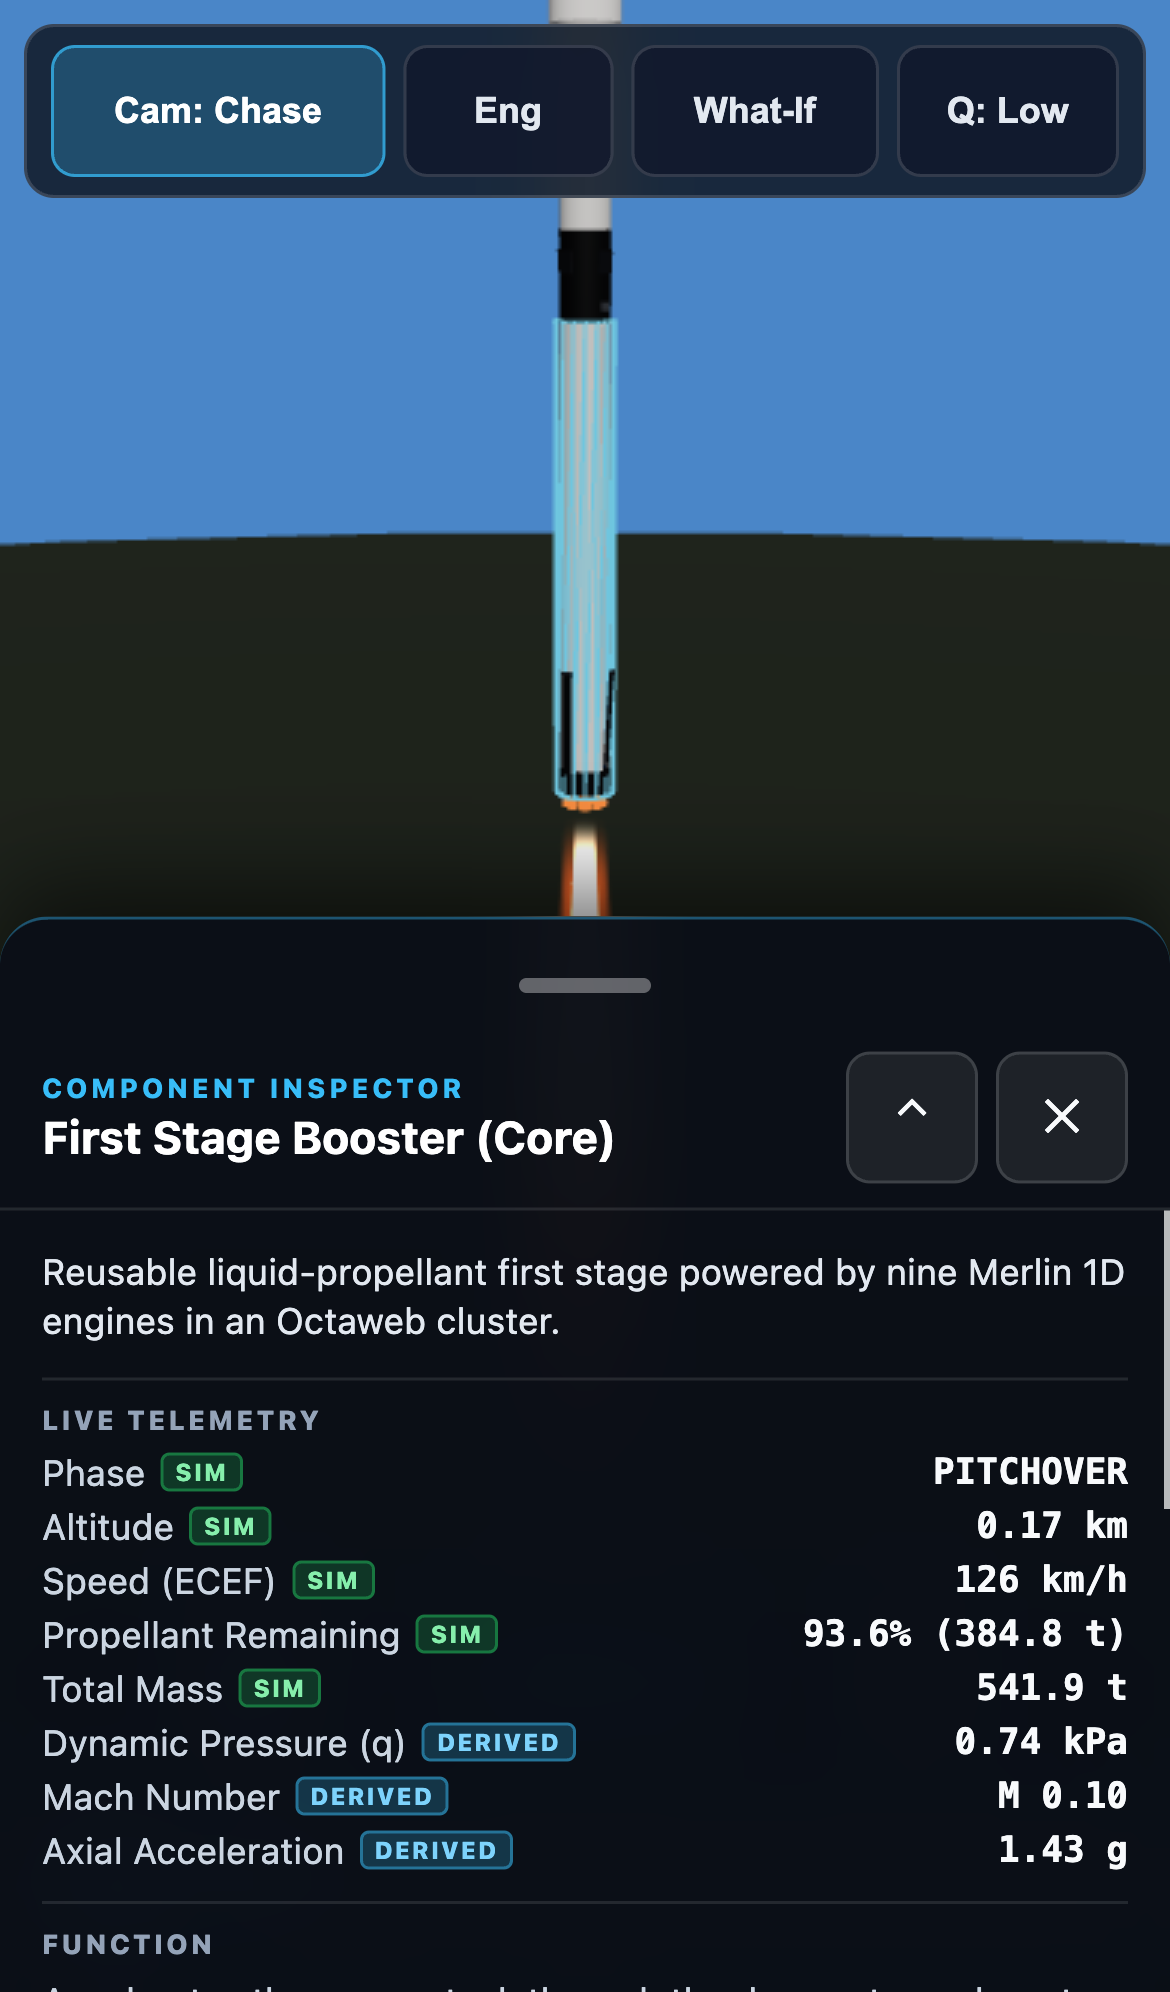
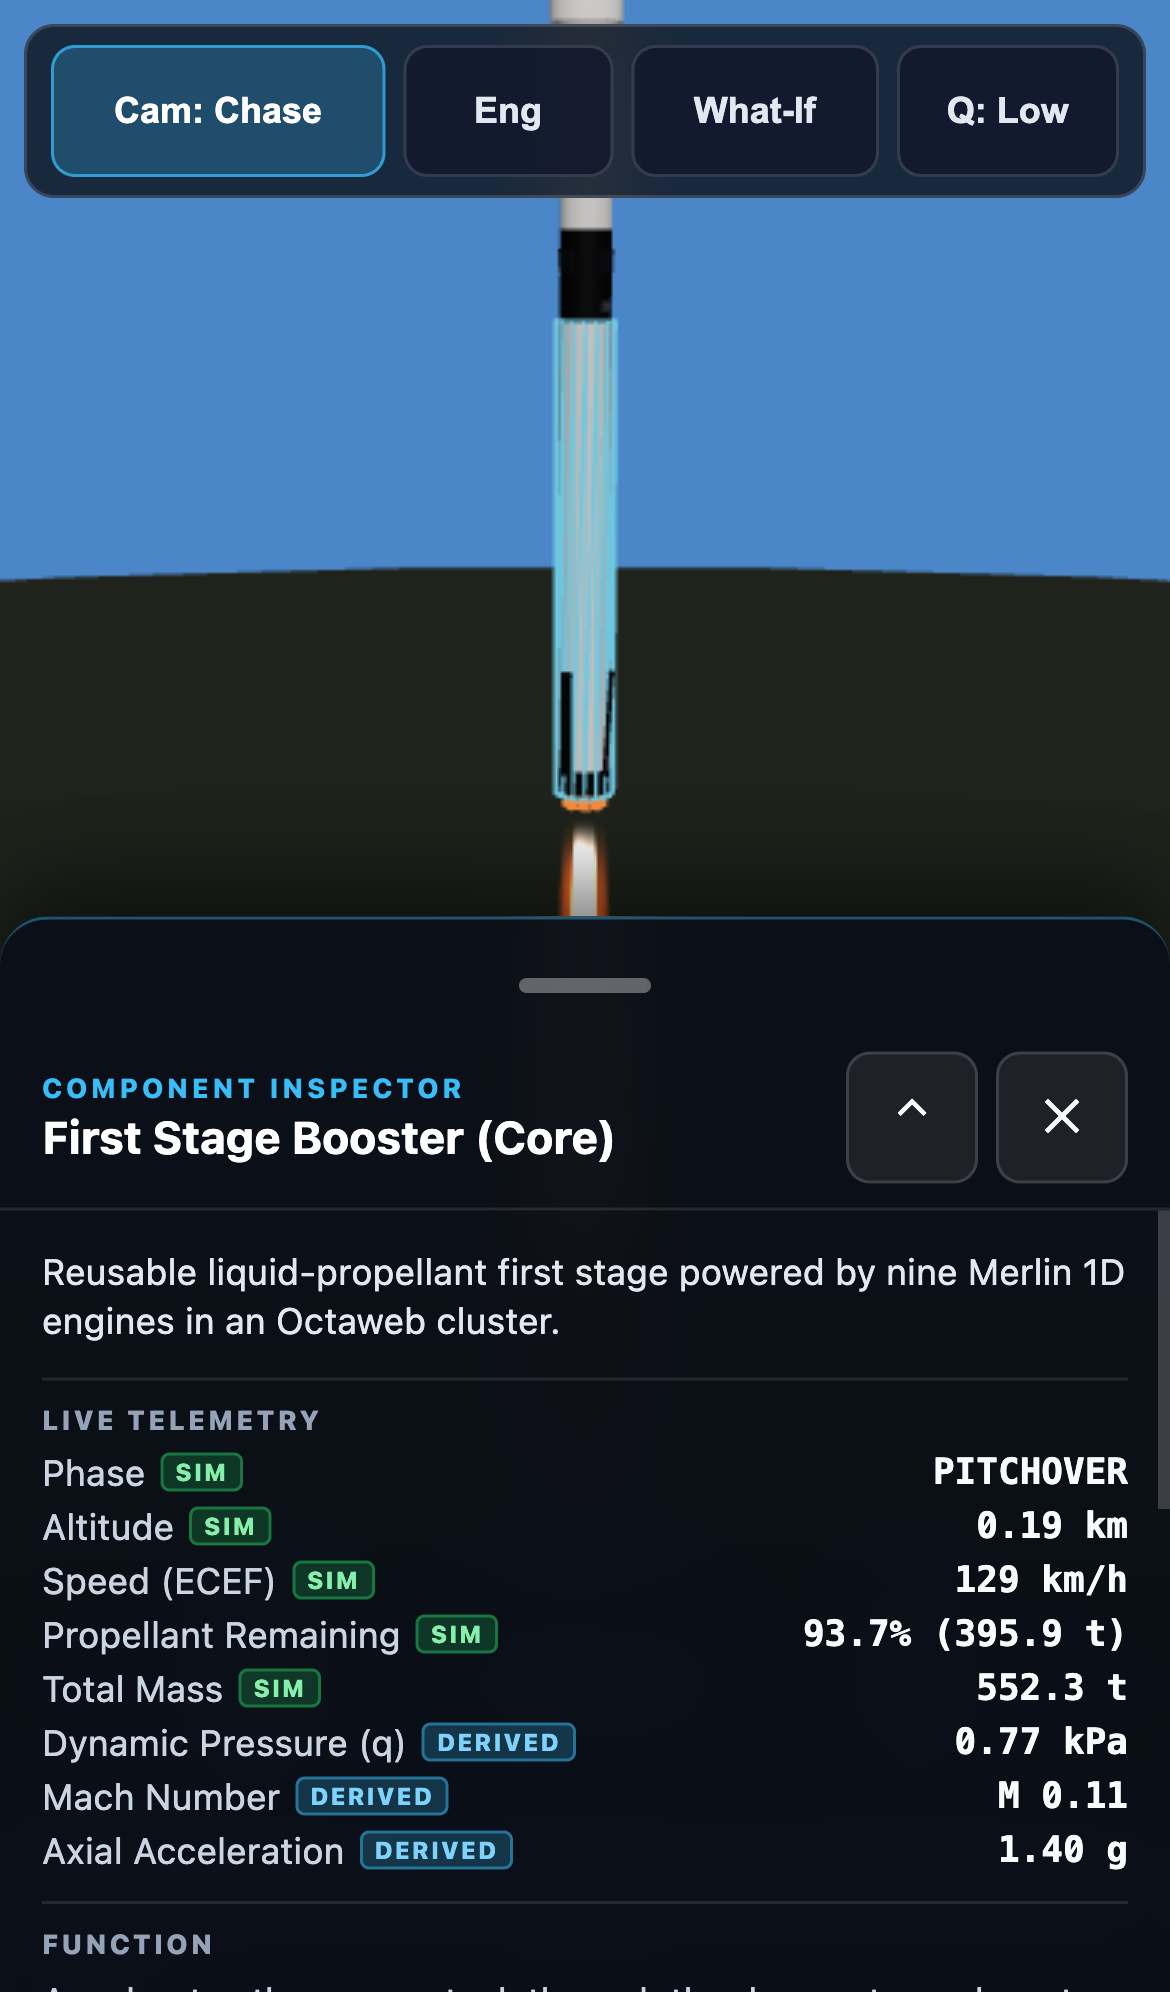
fix(v1.4-part-b): zero webcast offset, System-ID v2 backlog, deluge/hold-down docs & desktop+mobile E2E screenshots

diff --git a/e2e/v14-countdown.spec.ts b/e2e/v14-countdown.spec.ts
@@ -1,0 +1,74 @@
+import fs from 'node:fs';
+import path from 'node:path';
+import { expect, test } from '@playwright/test';
+import { waitForSimReady } from './helpers.js';
+
+const SHOT_DIR = path.resolve(process.cwd(), 'docs/screenshots/v1.4');
+
+const MOMENTS = [
+  { key: 't-minus-10', timeS: -10.0, clock: 'T-00:10', chip: 'S1: COUNTDOWN' },
+  { key: 't-minus-3', timeS: -2.2, clock: 'T-00:03', chip: 'S1: IGNITION' },
+  { key: 't-0', timeS: 0.25, clock: 'T+00:00', chip: 'S1: IN FLIGHT' },
+  { key: 't-plus-5', timeS: 5.0, clock: 'T+00:05', chip: 'S1: IN FLIGHT' },
+] as const;
+
+test.describe('v1.4 Part B — Countdown, Hold-Down Ignition & Water Deluge E2E', () => {
+  test('verifies T-10 countdown, T-3 ignition with clamps, T+0 clamp release + deluge, T+5 liftoff on desktop and mobile', async ({
+    page,
+  }) => {
+    fs.mkdirSync(SHOT_DIR, { recursive: true });
+    await waitForSimReady(page);
+
+    // Desktop (1280x800) screenshots using pad camera for clear clamp + deluge view
+    await page.setViewportSize({ width: 1280, height: 800 });
+    await page.evaluate(() => {
+      const dbg = (
+        window as unknown as {
+          __f9debug: { setPlaying: (p: boolean) => void; setCameraMode: (m: string) => void };
+        }
+      ).__f9debug;
+      dbg.setPlaying(false);
+      dbg.setCameraMode('pad');
+    });
+
+    for (const m of MOMENTS) {
+      await page.evaluate((t) => {
+        const dbg = (window as unknown as { __f9debug: { setTimeS: (x: number) => void } })
+          .__f9debug;
+        dbg.setTimeS(t);
+      }, m.timeS);
+      await page.waitForTimeout(350);
+
+      await expect(page.locator('.hud-clock')).toHaveText(m.clock);
+      await expect(page.getByTestId('hud-status-chips')).toContainText(m.chip);
+
+      await page.screenshot({
+        path: path.join(SHOT_DIR, `desktop-${m.key}.png`),
+      });
+    }
+
+    // Mobile portrait (390x844, iPhone 13) screenshots — close Engineer sheet so mobile HUD & vehicle are clear
+    await page.setViewportSize({ width: 390, height: 844 });
+    await page.waitForTimeout(250);
+    const engBtn = page.getByRole('button', { name: 'Eng' });
+    if (await engBtn.isVisible()) {
+      await engBtn.click();
+      await page.waitForTimeout(250);
+    }
+
+    for (const m of MOMENTS) {
+      await page.evaluate((t) => {
+        const dbg = (window as unknown as { __f9debug: { setTimeS: (x: number) => void } })
+          .__f9debug;
+        dbg.setTimeS(t);
+      }, m.timeS);
+      await page.waitForTimeout(350);
+
+      await expect(page.locator('.mobile-hud-clock')).toHaveText(m.clock);
+
+      await page.screenshot({
+        path: path.join(SHOT_DIR, `mobile-${m.key}.png`),
+      });
+    }
+  });
+});

diff --git a/src/validation/compare.ts b/src/validation/compare.ts
@@ -82,12 +82,13 @@ function makeDelta(real: number, sim: number): EventDelta {
 }
 
 /**
- * Webcast-clock offset (s), 1-DOF MAP refitted on the 3-flight fit set
- * (DM-1, CRS-16, Iridium NEXT 8) with hold-down clamp release at T = 0
- * (+2.00 ± 0.57 s; v1.3.1 vehicle frozen). Applied consistently in all
- * validation comparisons against SpaceX webcast telemetry.
+ * Webcast-clock offset (s). Set to 0.0 s in v1.4 Part B now that hold-down
+ * clamp release at T = 0 is modeled directly (webcast T+0 = clamp release;
+ * T+0..30 s fits best at 0 s with ~39 m / 2.9 m/s RMS). The former v1.3
+ * +1.92/+2.00 s offset was a compensating error hiding excess late-S1
+ * acceleration (tracked for System-ID v2 in docs/BACKLOG.md).
  */
-export const WEBCAST_LIFTOFF_OFFSET_S = 2.00;
+export const WEBCAST_LIFTOFF_OFFSET_S = 0;
 
 /**
  * Compare a simulated full mission against real SpaceX webcast telemetry.

diff --git a/src/worker/buildTrajectory.ts b/src/worker/buildTrajectory.ts
@@ -213,8 +213,10 @@ function buildSnapshotFromAscent(
     axialAccelG: s.axialAccelG,
     totalMassKg: s.totalMassKg,
     propellantKg: s.dynamic.stage1PropellantKg,
-    propellantFraction:
-      s.dynamic.stage1PropellantKg / vehicle.stage1.propellantMassKg,
+    propellantFraction: Math.min(
+      1,
+      s.dynamic.stage1PropellantKg / vehicle.stage1.propellantMassKg
+    ),
     phase: s.phase,
     activeEngineCount: s.engines.filter((e) => e.active).length,
     engines: s.engines,

diff --git a/src/sim/simulation.ts b/src/sim/simulation.ts
@@ -408,7 +408,9 @@ export function computeIgnitionSpoolThrottle(timeS: number): number {
   if (timeS < IGNITION_START_S) return 0;
   if (timeS >= IGNITION_START_S + SPOOL_UP_DURATION_S) return 1.0;
   const u = (timeS - IGNITION_START_S) / SPOOL_UP_DURATION_S;
-  return u * u * (3 - 2 * u);
+  const smooth = u * u * (3 - 2 * u);
+  // 10% initial TEA-TEB ignition flash at T-3.0 s, ramping smoothly to 100% by T-0.8 s
+  return 0.1 + 0.9 * smooth;
 }
 
 /**

diff --git a/docs/ASSUMPTIONS.md b/docs/ASSUMPTIONS.md
@@ -53,7 +53,7 @@ Two liftoff-alignment variants were compared on the 7-flight holdout set:
 | `cdScale` | `1.00 ± 0.15` | `ASSUMED` `ASCENT_CD_MACH_TABLE` multiplier | **`1.041 ± 0.149`** | `+0.27σ` | `1.00` | Poorly constrained (prior-dominated) |
 | `maxAxialAccelG` | `4.00 ± 0.50 g` | Public unmanned F9 S1 axial load limit (~3.5–4.5 g) | **`3.69 ± 0.45 g`** | `-0.63σ` | `0.91` | Poorly constrained (fit set only) |
 | `stage2MaxAccelG` | `3.50 ± 0.40 g` | Widened prior consistent with late-burn MVac webcast `dv/dt` (`3.55–3.73 g`) | **`3.52 ± 0.31 g`** | `+0.05σ` | `0.78` | Weakly constrained (S2-only fit set; MLE `3.52 g`) |
-| `liftoffOffsetS` | `0.00 ± 1.50 s` | Webcast $T+0$ clock sync (validation only, clamp release at $T=0$) | **`+2.00 ± 0.57 s`** | `+1.33σ` | `0.38` | 1-DOF refit with `v1.3.1` vehicle frozen (MLE `+3.55 s`) |
+| `liftoffOffsetS` | `0.00 s` (fixed) | Webcast $T+0$ = hold-down clamp release (modeled directly) | **`0.00 s` (fixed)** | — | — | Former `v1.3` `+1.92 s` offset was a compensating error hiding excess late-S1 acceleration (see `docs/BACKLOG.md` System-ID v2) |
 | `kick_DM1` (nuisance) | `2.00 ± 0.80°` | Per-flight trajectory shaping | **`1.28 ± 0.16°`** | `-0.90σ` | `0.19` | Well constrained |
 | `kick_CRS16` (nuisance) | `2.00 ± 0.80°` | Per-flight trajectory shaping | **`1.37 ± 0.20°`** | `-0.78σ` | `0.25` | Well constrained |
 | `kick_Iridium8` (nuisance) | `2.00 ± 0.80°` | Per-flight trajectory shaping | **`1.73 ± 0.42°`** | `-0.34σ` | `0.52` | Moderately constrained |
@@ -124,9 +124,10 @@ Giving the pre-Part-D baseline vehicle the **same** 1-DOF per-flight pitch-kick 
 ## 5. Ascent & Stage 2 Guidance
 
 - **Pre-launch countdown, hold-down clamp ignition & water deluge (`v1.4 Part B`):**
-  - Terminal countdown runs `T-10 s` → `T-0` (`countdownS: 10`), with acoustic water deluge activating at `T-5.0 s` (`ASSUMED` visual steam plume) and 9× Merlin 1D TEA-TEB ignition at **`T-3.0 s`** (SpaceX Falcon User's Guide / webcast sequence).
-  - `ASSUMED` smoothstep engine spool-up `0 → 100%` over `2.2 s` (`T-3.0 s` → `T-0.8 s`) followed by `0.8 s` full-thrust chamber-pressure verification against the 4 hold-down clamps (`~5.1 t` pre-release propellant burn, with vehicle clamped at `0 g` net acceleration and `0 m/s` ground speed). Hold-down clamps release at **`T = 0.0 s`** at `100%` thrust and exact flight propellant load (`stage1.propellantMassKg`), keeping all `t >= 0` trajectories bit-identical.
-  - **1-DOF `liftoffOffsetS` refit (clamp release at $T=0$, `v1.3.1` vehicle frozen):** Refitting only `liftoffOffsetS` on the 3-flight fit set yields **`+2.00 ± 0.57 s`** (MLE `+3.55 s`). In early ascent (`T+0..30 s`), `0.0 s` offset is tighter (`38–40 m / 2.8–3.0 m/s` vs `123–153 m / 9.5–10.2 m/s` at `+2.00 s`) because webcast `T+0` corresponds to clamp release, whereas `+2.00 s` substantially reduces full-Stage-1 RMS (`80–112 → 54–89 m/s`) by compensating for late-S1 acceleration timing.
+  - Terminal countdown runs `T-10 s` → `T-0` (`countdownS: 10`), with 9× Merlin 1D TEA-TEB ignition at **`T-3.0 s`** (SpaceX Falcon User's Guide / webcast sequence).
+  - **Hold-down propellant burn (`~5.1 t`, `ASSUMED`):** `ASSUMED` smoothstep engine spool-up `0 → 100%` over `2.2 s` (`T-3.0 s` → `T-0.8 s`) followed by `0.8 s` full-thrust chamber-pressure verification against the 4 hold-down clamps (`axialAccelG = 0 g` and `0 m/s` ground speed while clamped). During this 3 s hold-down window, the 9 Merlins physically burn **`~5.09 t` (`~5,090 kg`)** of RP-1/LOX; therefore, total **loaded Stage 1 propellant at `T-10 s` = fitted `T = 0` liftoff propellant (`422,671 kg`) + `~5.1 t` (`~427.8 t` loaded)**, releasing the hold-down clamps at **`T = 0.0 s`** at `100%` thrust and exact `422,671 kg` flight propellant mass (keeping all `t >= 0` trajectories bit-identical).
+  - **Water deluge timing per site (`ASSUMED`):** Acoustic water deluge activates at `T-5.0 s` (`WATER_DELUGE_START_S = -5.0`) and tapers out by `T+9.0 s` across `LC-39A`, `SLC-40`, and `SLC-4E`. While public SpaceX webcasts show Niagara water deluge initiating a few seconds before `T-3 s` ignition at all three pads, exact per-site valve open/close timings vary by pad and mission and are not published in the Falcon User's Guide, so `T-5.0 s` is explicitly marked **`ASSUMED`** for all sites.
+  - **Webcast liftoff offset removed (`WEBCAST_LIFTOFF_OFFSET_S = 0`):** With hold-down clamp release modeled at `T = 0`, early ascent (`T+0..30 s`) fits webcast telemetry best at **`0.0 s`** (`38–40 m / 2.8–3.0 m/s` RMS vs `123–153 m / 9.5–10.2 m/s` at `+2.00 s`), proving that `v1.3`'s `+1.92 s` offset was a **compensating error hiding excess late-S1 acceleration**, not a webcast clock artifact. `WEBCAST_LIFTOFF_OFFSET_S` is therefore fixed at **`0.0 s`**; the resulting honest full-S1 RMS (`DM-1`: `1.12 km / 80.0 m/s`, `CRS-16`: `3.13 km / 112.3 m/s`, `Iridium NEXT 8`: `0.67 km / 111.6 m/s`) is tracked for **System-ID v2** in `docs/BACKLOG.md`.
 - **Stage 1 pitchover & gravity turn (`ASSUMED`):** Smooth pitchover kick at $150\ \text{m}$ height **above the launch pad** (accounting for pad elevation such as Vandenberg SLC-4E at $114\ \text{m}$ AMSL) over $8\ \text{s}$ toward the Earth-rotation-compensated launch azimuth (supporting both ascending northeast Cape launches and descending southward Vandenberg launches), followed by zero-AoA gravity turn, smooth transonic max-Q throttle bucket ($M \in [0.92, 1.38]$), and axial G-limit ($3.69\ g$ MAP-fitted on the fit set for unmanned flights, $3.0\ g$ `ASSUMED` for human-rated DM-1).
 - **Stage 2 closed-loop guidance (`ASSUMED`):**
   - **Single-burn direct insertion (`ascentProfile: 'DIRECT'`):** Uses a closed-form piecewise constant-thrust / G-limited **Powered Explicit Guidance (PEG)** radial BVP law on spherical radius error $\Delta r = r_{\text{target}} - r$ (eliminating the up-to-$21.4\ \text{km}$ WGS84 oblateness mismatch at high inclinations) with linear gravity decay $g_{\text{eff}}(t) = g_{\text{eff}}(1 - t/t_{\text{go}})$ and cross-track yaw plane steering (`< 0.05°` inclination error). Achieves `±0.70–0.98 km` apogee/perigee on 200 km LEO (`DEFAULT_LEO_ASDS`, `DEFAULT_LEO_RTLS`, `DM-1`) and `618.8 × 621.9 km, 97.89°` (`±1.88 km`) on `SAOCOM 1A` / `573.9 × 577.0 km, 97.70°` (`±2.04 km`) on `SSO-A` with zero per-flight tuning.

diff --git a/README.md b/README.md
@@ -50,7 +50,7 @@ pnpm e2e              # Playwright E2E suite in headed Chromium (HEADLESS=1 for 
 
 ## Real Webcast Telemetry Validation
 
-Validated against OCR-cleaned SpaceX webcast telemetry ([shahar603/Telemetry-Data](https://github.com/shahar603/Telemetry-Data)) in the **Earth-relative (ECEF)** speed frame (`WEBCAST_LIFTOFF_OFFSET_S = +1.92 s` webcast-clock alignment; see [docs/ASSUMPTIONS.md](docs/ASSUMPTIONS.md)). Shared vehicle parameters (including `maxAxialAccelG = 3.69 g`) were MAP-estimated on the 3-flight fit set only and frozen across all 7 pure Block 5 holdout flights; per-flight pitchover kick (`Kick°`) is treated as a 1-DOF mission trajectory-shaping nuisance parameter. Stage 2 RMS is reported **only** where the simulator flies the same ascent profile through SECO-1.
+Validated against OCR-cleaned SpaceX webcast telemetry ([shahar603/Telemetry-Data](https://github.com/shahar603/Telemetry-Data)) in the **Earth-relative (ECEF)** speed frame. With hold-down clamp release at `T = 0` now modeled directly, **`WEBCAST_LIFTOFF_OFFSET_S = 0.0 s`** (`T+0..30 s` fits best at `0 s` with `~39 m / 2.9 m/s` RMS; the `v1.3` `+1.92 s` offset in the historical Part D table below was a compensating error hiding excess late-S1 acceleration, tracked for System-ID v2 in [docs/BACKLOG.md](docs/BACKLOG.md)). Shared vehicle parameters (`maxAxialAccelG = 3.69 g`, `stage2MaxAccelG = 3.52 g`) were MAP-estimated on the 3-flight fit set only and frozen across all 7 pure Block 5 holdout flights; per-flight pitchover kick (`Kick°`) is treated as a 1-DOF mission trajectory-shaping nuisance parameter. Stage 2 RMS is reported **only** where the simulator flies the same ascent profile through SECO-1.
 
 | Flight | Role | Real Profile | Fitted Kick | Max-Q Δt (B → A) | MECO Δt (B → A) | S1 Alt RMS (B → A) | S1 Vel RMS (B → A) | S2 Vel RMS (B → A) | SECO-1 (Real / B / A) |
 | --- | --- | --- | ---: | ---: | ---: | ---: | ---: | ---: | ---: |

diff --git a/docs/BACKLOG.md b/docs/BACKLOG.md
@@ -2,7 +2,12 @@
 
 Known model gaps identified during Phase 2.5 validation and holdout testing, tracked for future physics iterations:
 
-1. **Two-burn Stage 2 orbital insertion (SES-1 → coast → SES-2):**
+1. **[HIGH PRIORITY — Own branch after v1.4] System-ID v2 (`WEBCAST_LIFTOFF_OFFSET_S = 0` fixed):**
+   - `v1.4 Part B` demonstrated that with hold-down clamp release modeled at `T = 0`, early ascent (`T+0..30 s`) fits best at `0.0 s` (`38–40 m / 2.8–3.0 m/s` RMS) and `v1.3`'s `+1.92 s` webcast offset was a compensating error hiding excess late-S1 acceleration.
+   - Re-run joint MAP system identification on the exact same 3-flight fit / 7-flight holdout protocol with **`liftoffOffsetS` fixed at `0.0 s`**, adding **max-Q throttle-bucket depth & duration** and the **Stage 1 late-burn axial acceleration limit** as fitted parameters.
+   - **Unified hypothesis:** a single throttle-bucket / late-S1 acceleration mechanism explains both the late-S1 excess acceleration on LEO flights and the `10–13 s` early Max-Q on heavy GTO flights.
+
+2. **Two-burn Stage 2 orbital insertion (SES-1 → coast → SES-2):**
    - Current Stage 2 guidance performs a single continuous burn to circular LEO (~200 km).
    - High-altitude polar/SSO/GTO flights (`Iridium NEXT 8` 625 km, `SAOCOM 1A` 620 km) perform a 2-burn Hohmann transfer (SES-1 to parking/transfer orbit, coast to apogee, SES-2 circularization).
    - The worker protocol and timeline/event model are designed to support arbitrary burn/coast sequences per stage so this can be added without UI changes.
